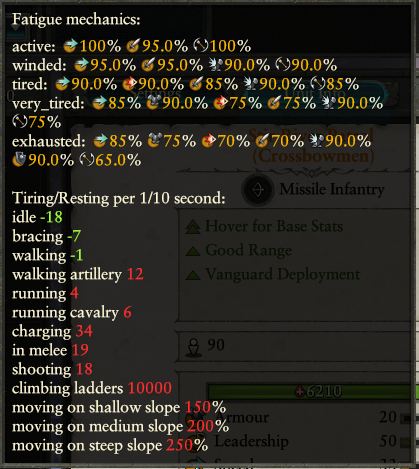
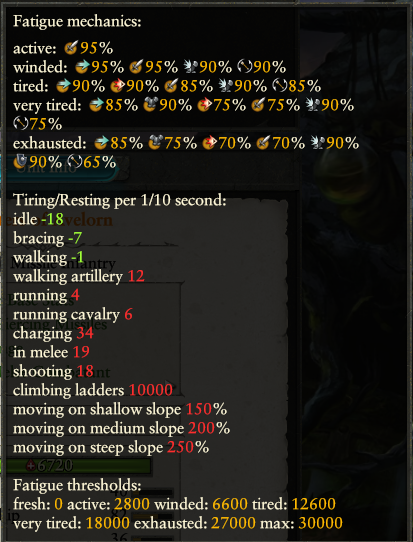
Updated speed tooltip Added fatigue level thresholds Removed un-debuffed stats

diff --git a/wh2/generate.py b/wh2/generate.py
@@ -18,12 +18,14 @@ arg_parser = argparse.ArgumentParser(description="Generates the mod packfile to 
 arg_parser.add_argument("path_to_rpfm_cli", help="path to rpfm_cli.exe used for extracting and creating mod files")
 arg_parser.add_argument("-g", dest="path_to_game", default=game_path, help=f"path to the main directory of {game_name}(default: {game_path})")
 arg_parser.add_argument("-i", dest="install_path", default=install_path, help=f"path where to install the mod file (default: {install_path})")
+arg_parser.add_argument("-r", dest="do_rebuild", default=True, help="Rebuild CSV files?")
 
 init_args = arg_parser.parse_args()
 
 rpfmcli_path = init_args.path_to_rpfm_cli
 game_path = init_args.path_to_game
 install_path = init_args.install_path
+do_rebuild = init_args.do_rebuild
 
 
 def run_rpfm(packfile, *args):
@@ -488,7 +490,7 @@ def missile_stats(projectile_row, unit, projectile_types, projectiles_explosions
     else:
         targets += xmark
     targets += "buildings "
-    if projectile_row["can_damage_vehicles"] == "true":
+    if projectile_row["can_damage_vehicles"] == "true":  # todo: redundant with the other two? is it for siege weapons?
         targets += checkmark
     else:
         targets += xmark
@@ -531,6 +533,8 @@ def missile_stats(projectile_row, unit, projectile_types, projectiles_explosions
             normalization_factor = normalization_distance / float(calibration_distance)
             normalized_area = float(calibration_area) * normalization_factor
             # todo: add 'calibration coverage', requires the unit's max rage
+            # todo: add more accurate 'score' at the calibration distance, i want something linear
+            # todo: estimate area outside of calibration distance, 100m for example, 120...
             projectile_text += indent_str(indent + 2) + "normalized: " + "area " + derived_stat_str(normalized_area) + " at " + derived_stat_str(normalization_distance) + "m (compare only like to like)" + "\\\\n"
         else:
             projectile_text += indent_str(indent + 2) + "calibration range too short, unit can hardly be considered ranged" + "\\\\n"
@@ -555,7 +559,10 @@ def missile_stats(projectile_row, unit, projectile_types, projectiles_explosions
     if projectile_row["shockwave_radius"] != "-1.0":
         impact += "shockwave radius " + projectile_row["shockwave_radius"]
 
-    # todo: not sure where to put this: add rough 'power' scale to ammo use
+    # todo: add CP calculation/values to units (Combat Potential)
+    #       calculation for ranged cp
+    #       melee cp
+    #       and... campaign modifiers... that's impossible dynamically but there must be A formula i can show
     if trajectory:  # todo: fix addition of many empty lines, some units with trajectory dont have the issue, not cause
         # sight - celownik
         # fixed - attached to the weapon
@@ -641,7 +648,7 @@ def missile_weapon_stats(missile_weapon, unit, projectile_types, projectiles_exp
     projectile_text = ""
     projectile_id = weapon_projectile[missile_weapon]
     name = ""
-    if weapon_secondary_ammo[missile_weapon] == "true":
+    if weapon_secondary_ammo[missile_weapon] == "true":  # todo: MASSIVE eyesore from gunnery wright shotgun and this
         name = "(secondary ammo)"
     projectile_text += indent_str(indent) + title + name + ":" + "\\\\n"
     projectile_row = projectile_types[projectile_id]
@@ -1291,7 +1298,22 @@ def ability_descriptions(unit_ability_loc_reader, unit_ability_loc_writer, proje
     unit_ability_loc_writer.write()
 
 
-def get_fatigue_effects(fatigue_order):
+def get_fatigue_order_limits():
+    kv_fatigue = read_column_to_dict(TWDBReader("_kv_fatigue_tables"), "key", "value")
+    fatigue_order_limits = []
+
+    # find all fatigue levels
+    for key, value in kv_fatigue.items():
+        if "threshold_" in key:
+            fatigue_order_limits.append((key.replace("threshold_", "", 1), float(value)))
+
+    # sort by value
+    fatigue_order_limits.sort(key=lambda x: x[1])
+
+    return fatigue_order_limits
+
+
+def get_fatigue_effects(fatigue_order_limits):
     fatigue_effects = {}
     with TWDBReader("unit_fatigue_effects_tables") as db_reader:
         for row in db_reader.rows_iter:
@@ -1299,10 +1321,12 @@ def get_fatigue_effects(fatigue_order):
             stat = row["stat"].replace("scalar_", "", 1).replace("stat_", "", 1)
             if key not in fatigue_effects:
                 fatigue_effects[key] = {}
-            fatigue_effects[key][stat] = row["value"]
+            fatigue_effects[key][stat] = round(float(row["value"]), 4)
 
     prev_level = {}
-    for fatigue_level in fatigue_order:
+    for fatigue_level, _ in fatigue_order_limits:
+        if fatigue_level == "fresh" or fatigue_level == "max":  # todo: deal better with edge cases
+            continue
         for stat in prev_level:
             if stat not in fatigue_effects[fatigue_level]:
                 fatigue_effects[fatigue_level][stat] = prev_level[stat]
@@ -1317,6 +1341,7 @@ def get_fatigue_effects(fatigue_order):
 # missile range: icon_stat_range
 # reload time: icon_stat_reload_time
 # ammo: icon_stat_ammo
+# todo: add melee non-ap and explosion non-ap icons, used in ranged dmg and melee dmg default tooltips
 # armour: ui/skins/default/icon_stat_armour
 # attack: ui/skins/default/icon_stat_attack
 # defence: ui/skins/default/icon_stat_defence
@@ -1335,7 +1360,7 @@ def get_fatigue_effects(fatigue_order):
 # ranged res: ui/campaign ui/effect_bundles/resistance_missile
 # fire res: ui/campaign ui/effect_bundles/resistance_fire
 
-def stat_descriptions(kv_rules, kv_morale, fatigue_order, fatigue_effects, stat_icons):
+def stat_descriptions(kv_rules, kv_morale, fatigue_order_limits, fatigue_effects, stat_icons):
     kv_fatigue = read_column_to_dict(TWDBReader("_kv_fatigue_tables"), "key", "value")
 
     with TWLocDBReader("unit_stat_localisations") as db_reader:
@@ -1408,11 +1433,14 @@ def stat_descriptions(kv_rules, kv_morale, fatigue_order, fatigue_effects, stat_
 
             if key == "unit_stat_localisations_tooltip_text_scalar_speed":
                 speed_text = "Fatigue mechanics: ||"
-                speed_text += ''
-                for fatigue_level in fatigue_order:
-                    speed_text += fatigue_level + ": "
+
+                for fatigue_level, _ in fatigue_order_limits:
+                    if fatigue_level == "fresh" or fatigue_level == "max":  # todo: deal better with edge cases
+                        continue
+                    speed_text += fatigue_level.replace("_", " ") + ": "
                     for stat in fatigue_effects[fatigue_level]:
-                        speed_text += " " + stat_icons[stat] + "" + stat_str(float(fatigue_effects[fatigue_level][stat]) * 100) + "%"
+                        if float(fatigue_effects[fatigue_level][stat]) * 100 < 100: # check if the stat is actually bad
+                            speed_text += " " + stat_icons[stat] + "" + stat_str(float(fatigue_effects[fatigue_level][stat]) * 100) + "%"
                     speed_text += '||'
 
                 speed_text += " || Tiring/Resting per 1/10 second: ||"
@@ -1429,7 +1457,15 @@ def stat_descriptions(kv_rules, kv_morale, fatigue_order, fatigue_effects, stat_
                     #       run 9 rank up hill, it should tire them if after
                     # todo: is movement penalty only up hill? is it positive downhill?
                     # todo: what is 'steep' exactly?
-                    # todo: add point limit for each fatigue level?
+
+                counter = 0
+                speed_text += " || Fatigue thresholds: ||"
+                for fatigue_level, point_limit in fatigue_order_limits:
+                    counter += 1
+                    speed_text += fatigue_level.replace("_", " ") + ": " + stat_str(str(point_limit).rstrip('0').rstrip('.')) + " "
+                    if counter >= len(fatigue_order_limits) / 2:
+                        counter = 0
+                        speed_text += '||'
 
                 new_row["text"] = speed_text
 
@@ -1487,19 +1523,17 @@ def attribute_descriptions(kv_morale):
                 new_text += "next terror immunity lasts for " + stat_str(kv_morale["morale_shock_rout_immunity_timer"]) + "s"
             if key == "unit_attributes_bullet_text_encourages":
                 new_text += "||encourage aura " + " full effect range " + stat_str(kv_morale["general_aura_radius"]) + "m linear drop to 0 at " + stat_str(float(kv_morale["general_aura_radius"]) * float(kv_morale["inspiration_radius_max_effect_range_modifier"])) + "m||"
-                new_text += "general's effect in full effect range " + smart_str(
-                    kv_morale["general_inspire_effect_amount_min"]) + '||'
-                new_text += "encourage unit's effect in full effect range " + smart_str(
-                    kv_morale["unit_inspire_effect_amount"])
-            if key == "unit_attributes_bullet_text_strider":
-                new_text += "||this includes speed decrease on slopped terrain, melee and missile damage reduction from being downhill, ground_stat_type, fatigue penalties from terrain, etc."
+                new_text += "general's effect in full effect range " + smart_str(kv_morale["general_inspire_effect_amount_min"]) + '||'
+                new_text += "encourage unit's effect in full effect range " + smart_str(kv_morale["unit_inspire_effect_amount"])
+            if key == "unit_attributes_bullet_text_strider":  # todo: check that, the dmg ignore sounds OP to be honest
+                new_text += "||this includes speed decrease on slopped terrain, melee and missile damage reduction from being downhill, ground type, fatigue penalties from terrain, etc."
             for s in stat:
                 new_text += '||' + s + ": " + stat_str(stat[s])
             new_row["text"] += new_text
         db_writer.write()
 
 
-def random_localisation_strings(kv_rules, fatigue_order, fatigue_effects, stat_icons):
+def random_localisation_strings(kv_rules, fatigue_order_limits, fatigue_effects, stat_icons):
     with TWLocDBReader("random_localisation_strings") as db_reader:
         db_writer = db_reader.make_writer()
         for new_row in db_reader.rows_iter:
@@ -1507,10 +1541,15 @@ def random_localisation_strings(kv_rules, fatigue_order, fatigue_effects, stat_i
             new_text = ""
             key = new_row["key"]
 
+            # todo: does the animation of holding up the shield matter? units in melee and shootign hybrids don't do it
             if key == "random_localisation_strings_string_modifier_icon_tooltip_shield":
                 new_text += "|| Shields only block projectiles from the front in a " + stat_str(float(kv_rules["shield_defence_angle_missile"]) * 2) + "° arc"
+
+            # I think this gets the description in the battle UI to list the stats after the units' fatigue level
             if "random_localisation_strings_string_fatigue" in key:
-                for fatigue_level in fatigue_order:
+                for fatigue_level, _ in fatigue_order_limits:
+                    if fatigue_level == "fresh" or fatigue_level == "max":  # todo: deal better with edge cases
+                        continue
                     if ("fatigue_" + fatigue_level) not in key:
                         continue
                     for stat in fatigue_effects[fatigue_level]:
@@ -1577,10 +1616,10 @@ def component_texts(stat_icons):
 
 def main():
     # todo: check of files exist and run if not
-    # todo: split into 2 runner files, one unpack and one regenerate, waiting takes forever...
-    reload_data = True
-    if reload_data:
+    if do_rebuild == "True":
         extract_packfiles()
+        # todo: this is not the part that causes the extract... :( i need TSV
+        #       I need TSV blocking for that and hope I dont break things
 
     # unit_abilities localizations
     unit_ability_loc_reader = TWLocDBReader("unit_abilities")
@@ -1592,8 +1631,6 @@ def main():
     missile_weapon_junctions, missile_weapon_for_junction = get_missile_weapon_junctions()
 
     projectiles_explosions = read_to_dict(TWDBReader("projectiles_explosions_tables"))
-
-    fatigue_order = ["active", "winded", "tired", "very_tired", "exhausted"]
 
     stat_icons = {"accuracy": "accuracy", "armour": icon("icon_stat_armour"),
                   "charge_bonus": icon("icon_stat_charge_bonus"), "charging": icon("icon_stat_charge_bonus"),
@@ -1612,15 +1649,16 @@ def main():
     ability_descriptions(unit_ability_loc_reader, unit_ability_loc_writer, projectile_types, ability_details,
                          land_unit_to_spawn_info, projectiles_explosions)
 
-    fatigue_effects = get_fatigue_effects(fatigue_order)
+    fatigue_order_limits = get_fatigue_order_limits()
+    fatigue_effects = get_fatigue_effects(fatigue_order_limits)
 
     component_texts(stat_icons)
 
-    stat_descriptions(kv_rules, kv_morale, fatigue_order, fatigue_effects, stat_icons)
+    stat_descriptions(kv_rules, kv_morale, fatigue_order_limits, fatigue_effects, stat_icons)
 
     attribute_descriptions(kv_morale)
 
-    random_localisation_strings(kv_rules, fatigue_order, fatigue_effects, stat_icons)
+    random_localisation_strings(kv_rules, fatigue_order_limits, fatigue_effects, stat_icons)
 
     make_package()
 
